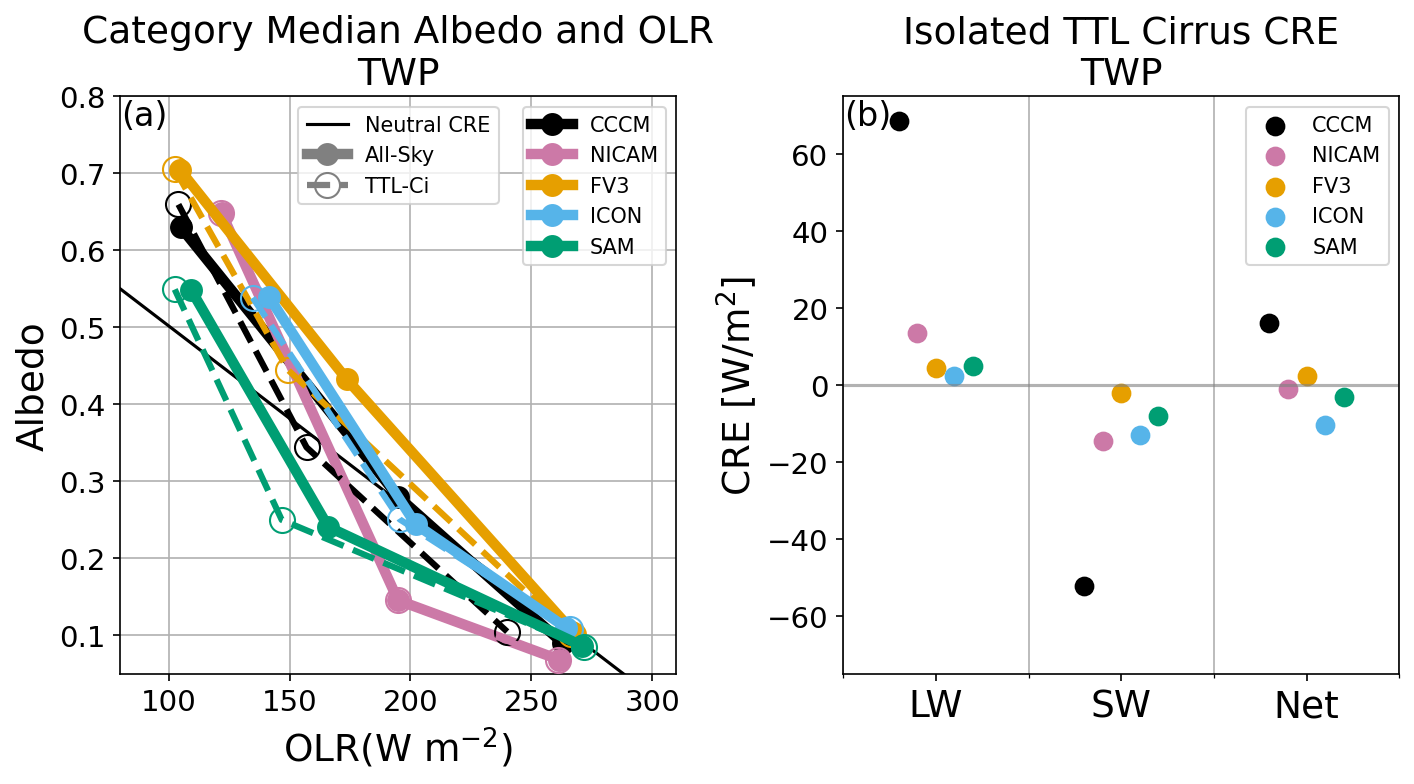
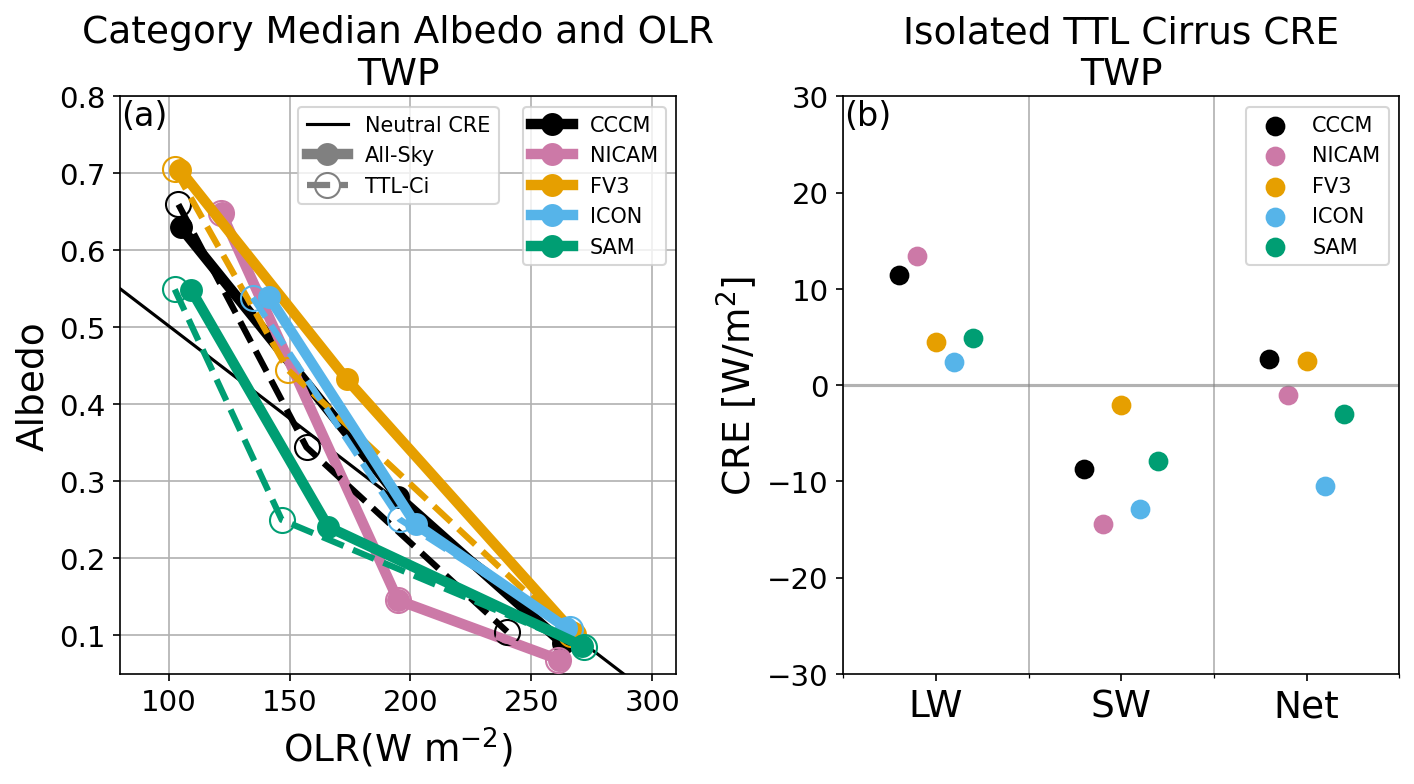
minor changes - remove nicam shock

diff --git a/python_scripts/fig12_med_cat_on_joint_histogram_allRegions.py b/python_scripts/fig12_med_cat_on_joint_histogram_allRegions.py
@@ -17,22 +17,22 @@ regions = ["SHL","TWP","NAU"]
 models = ["CCCM","NICAM","FV3","ICON","SAM"]
 net=False
 
-dar  = pd.read_csv("../plots/DARDAR_cat_alb_olr_ttl_cs.csv")
-ntwp = pd.read_csv("../plots/NICAM_TWP_cat_alb_olr_ttl_cs.csv")
-ftwp = pd.read_csv("../plots/FV3_TWP_cat_alb_olr_ttl_cs.csv")
-itwp = pd.read_csv("../plots/ICON_TWP_cat_alb_olr_ttl_cs.csv")
-stwp = pd.read_csv("../plots/SAM_TWP_cat_alb_olr_ttl_cs.csv")
-nshl = pd.read_csv("../plots/NICAM_SHL_cat_alb_olr_ttl_cs.csv")
-fshl = pd.read_csv("../plots/FV3_SHL_cat_alb_olr_ttl_cs.csv")
-ishl = pd.read_csv("../plots/ICON_SHL_cat_alb_olr_ttl_cs.csv")
-sshl = pd.read_csv("../plots/SAM_SHL_cat_alb_olr_ttl_cs.csv")
-nnau = pd.read_csv("../plots/NICAM_NAU_cat_alb_olr_ttl_cs.csv")
-fnau = pd.read_csv("../plots/FV3_NAU_cat_alb_olr_ttl_cs.csv")
-inau = pd.read_csv("../plots/ICON_NAU_cat_alb_olr_ttl_cs.csv")
-snau = pd.read_csv("../plots/SAM_NAU_cat_alb_olr_ttl_cs.csv")
-cre_twp = pd.read_csv("../plots/isolated_ttl_cirrus_iceonly_noliq_percentiles_TWP.csv")
-cre_shl = pd.read_csv("../plots/isolated_ttl_cirrus_iceonly_noliq_percentiles_SHL.csv")
-cre_nau = pd.read_csv("../plots/isolated_ttl_cirrus_iceonly_noliq_percentiles_NAU.csv")
+dar  = pd.read_csv("../tables/DARDAR_cat_alb_olr_ttl_cs.csv")
+ntwp = pd.read_csv("../tables/NICAM_TWP_cat_alb_olr_ttl_cs.csv")
+ftwp = pd.read_csv("../tables/FV3_TWP_cat_alb_olr_ttl_cs.csv")
+itwp = pd.read_csv("../tables/ICON_TWP_cat_alb_olr_ttl_cs.csv")
+stwp = pd.read_csv("../tables/SAM_TWP_cat_alb_olr_ttl_cs.csv")
+nshl = pd.read_csv("../tables/NICAM_SHL_cat_alb_olr_ttl_cs.csv")
+fshl = pd.read_csv("../tables/FV3_SHL_cat_alb_olr_ttl_cs.csv")
+ishl = pd.read_csv("../tables/ICON_SHL_cat_alb_olr_ttl_cs.csv")
+sshl = pd.read_csv("../tables/SAM_SHL_cat_alb_olr_ttl_cs.csv")
+nnau = pd.read_csv("../tables/NICAM_NAU_cat_alb_olr_ttl_cs.csv")
+fnau = pd.read_csv("../tables/FV3_NAU_cat_alb_olr_ttl_cs.csv")
+inau = pd.read_csv("../tables/ICON_NAU_cat_alb_olr_ttl_cs.csv")
+snau = pd.read_csv("../tables/SAM_NAU_cat_alb_olr_ttl_cs.csv")
+cre_twp = pd.read_csv("../tables/isolated_ttl_cirrus_iceonly_noliq_percentiles_TWP.csv")
+cre_shl = pd.read_csv("../tables/isolated_ttl_cirrus_iceonly_noliq_percentiles_SHL.csv")
+cre_nau = pd.read_csv("../tables/isolated_ttl_cirrus_iceonly_noliq_percentiles_NAU.csv")
 
 tc_med_olr = dar.twp_olr_med.values[:-1]
 tc_med_alb = dar.twp_alb_med.values[:-1]
@@ -248,14 +248,14 @@ for i,r in enumerate(regions):
                 ax[3].scatter([i+0.1*j],[swcre[j]/6], edgecolor=c[m], label=labsw,
                        marker='s', c='none', s=fs*4)
                 ax[3].scatter([i+0.1*j],[netcre[j]/6], c=c[m], 
-                       marker='o', s=fs, label=labnet)
+                       marker='o', s=fs*2, label=labnet)
             else:
                 ax[3].scatter([i+0.1*j],[lwcre[j]], c=c[m], 
                        marker='s', s=fs*4, label=lablw) #markerfacecolor='none'
                 ax[3].scatter([i+0.1*j],[swcre[j]], edgecolor=c[m], label=labsw,
                        marker='s', c='none', s=fs*4)
                 ax[3].scatter([i+0.1*j],[netcre[j]], c=c[m], 
-                       marker='o', s=fs, label=labnet)
+                       marker='o', s=fs*2, label=labnet)
 ax[3].set_xlim([-0.3,2.7])
 ax[3].set_xticklabels(['SHL', 'TWP', 'NAU'])
 ax[3].grid(which='minor')
@@ -264,14 +264,14 @@ if net:
 else:
     ax[3].set_title('Isolated TTL Cirrus CRE', fontsize=fs)
 ax[3].set_ylabel('CRE [W/m$^2$]', fontsize=fs)
-if not(net):
-    ax[3].legend()
+ax[3].legend(loc=3)
 ax[3].tick_params(axis='y', labelsize=fs-4)
 ax[3].tick_params(axis='x', labelsize=fs)
 
 ax[0].set_ylim([0.01,0.85])
 ax[1].set_ylim([0.01,0.85])
 ax[2].set_ylim([0.01,0.85])
+ax[3].set_ylim([-30,30])
 
 ax[1].set_ylabel(None)
 ax[2].set_ylabel(None)
@@ -283,7 +283,7 @@ ax[1].annotate("(b)", xy=(0.01,0.94), xycoords="axes fraction", fontsize=fs)
 ax[2].annotate("(c)", xy=(0.01,0.94), xycoords="axes fraction", fontsize=fs)
 ax[3].annotate("(d)", xy=(0.01,0.94), xycoords="axes fraction", fontsize=fs)
 
-plt.savefig('../plots/fig11_median_category_alb_olr_allmodels_stn.png',
+plt.savefig('../plots/fig12_cat_lifestages_cre_all_regions.png',
             dpi=150,bbox_inches='tight')
-print('    saved to ../plots/fig11_median_category_alb_olr_allmodels_stn.png')
+print('    saved to ../plots/fig12_cat_lifestages_cre_all_regions.png')
 plt.close()

diff --git a/python_scripts/fig08_cat_lifestages_twp.py b/python_scripts/fig08_cat_lifestages_twp.py
@@ -91,6 +91,9 @@ for j,m in enumerate(models):
         if m=="CCCM":
             m = "OBS"
             lab = "CCCM"
+            isocre[j] = isocre[j]/6
+            swcre[j] = swcre[j]/6
+            lwcre[j] = lwcre[j]/6
         else:
             lab = m
         ax1.scatter([2.3+0.1*j],[isocre[j]], c=c[m], 
@@ -109,7 +112,7 @@ ax1.set_title('Isolated TTL Cirrus CRE\nTWP', fontsize=fs)
 ax1.set_ylabel('CRE [W/m$^2$]', fontsize=fs)
 ax1.tick_params(axis='y', labelsize=fs-4)
 ax1.tick_params(axis='x', labelsize=fs)
-ax1.set_ylim([-75,75])
+ax1.set_ylim([-30,30])
 ax1.axhline(y=0, color='gray', alpha=0.6)
 ax1.legend()
 

diff --git a/python_scripts/fig02_nicam_iwc_cat_profiles.py b/python_scripts/fig02_nicam_iwc_cat_profiles.py
@@ -70,9 +70,9 @@ ax3.plot([0,0], [0,0], 'b', label="Ice")
 ax3.plot([0,0], [0,0], 'b--', label="Snow")
 ax3.plot([0,0], [0,0], 'b-.', label="Graupel")
 ax3.plot([0,0], [0,0], 'k', label="Total water")
-ax1.set_xlabel("FWC (g/m$^3$)", fontsize=fs-2)
-ax2.set_xlabel("FWC (g/m$^3$)", fontsize=fs-2)
-ax3.set_xlabel("FWC (g/m$^3$)", fontsize=fs-2)
+ax1.set_xlabel("g/m$^3$", fontsize=fs-2)
+ax2.set_xlabel("g/m$^3$", fontsize=fs-2)
+ax3.set_xlabel("g/m$^3$", fontsize=fs-2)
 ax1.set_ylabel("Height (km)", fontsize=fs-2)
 ax1.set_ylim([0,20])
 ax2.set_ylim([0,20])

diff --git a/python_scripts/fig05_model_biases_twp.py b/python_scripts/fig05_model_biases_twp.py
@@ -13,7 +13,7 @@ from utility import util, load01deg
 import utility.analysis_parameters as ap
 import statistics as stats
 import matplotlib.pyplot as plt
-import vert_cld_frac
+from utility import vert_cld_frac
 
 c = ap.COLORS
 REGION = "TWP"
